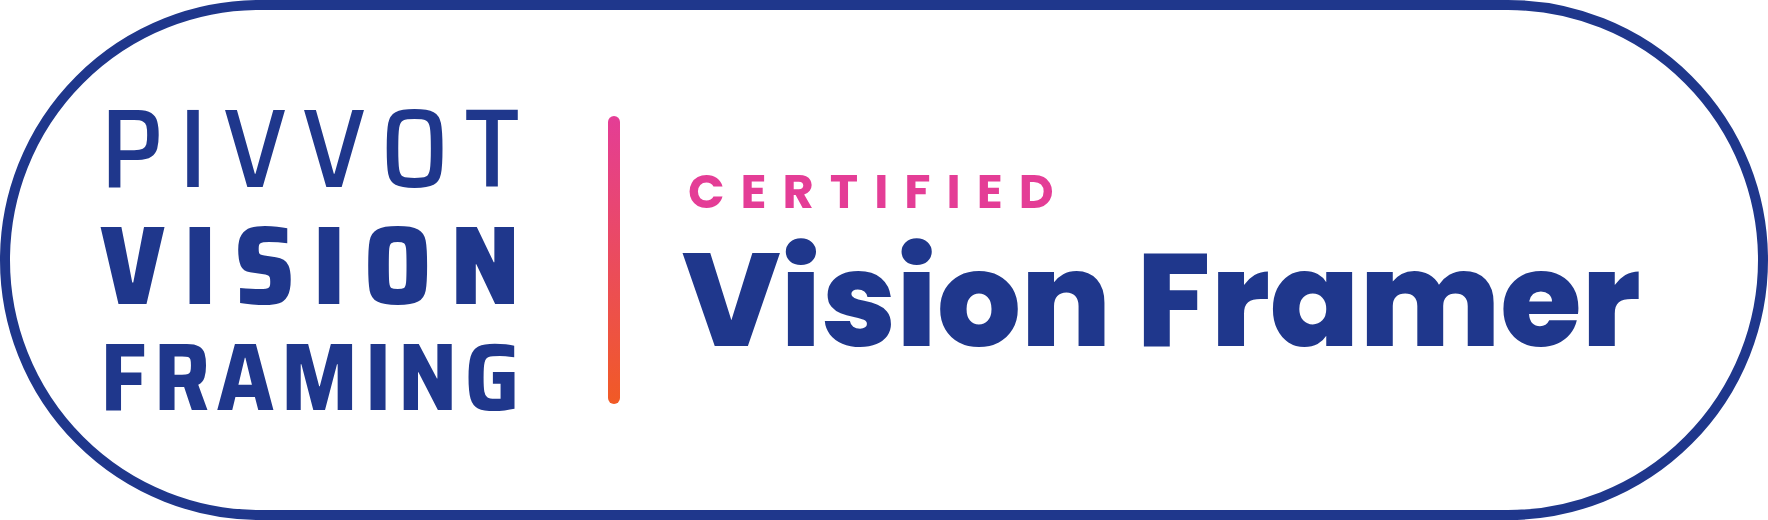
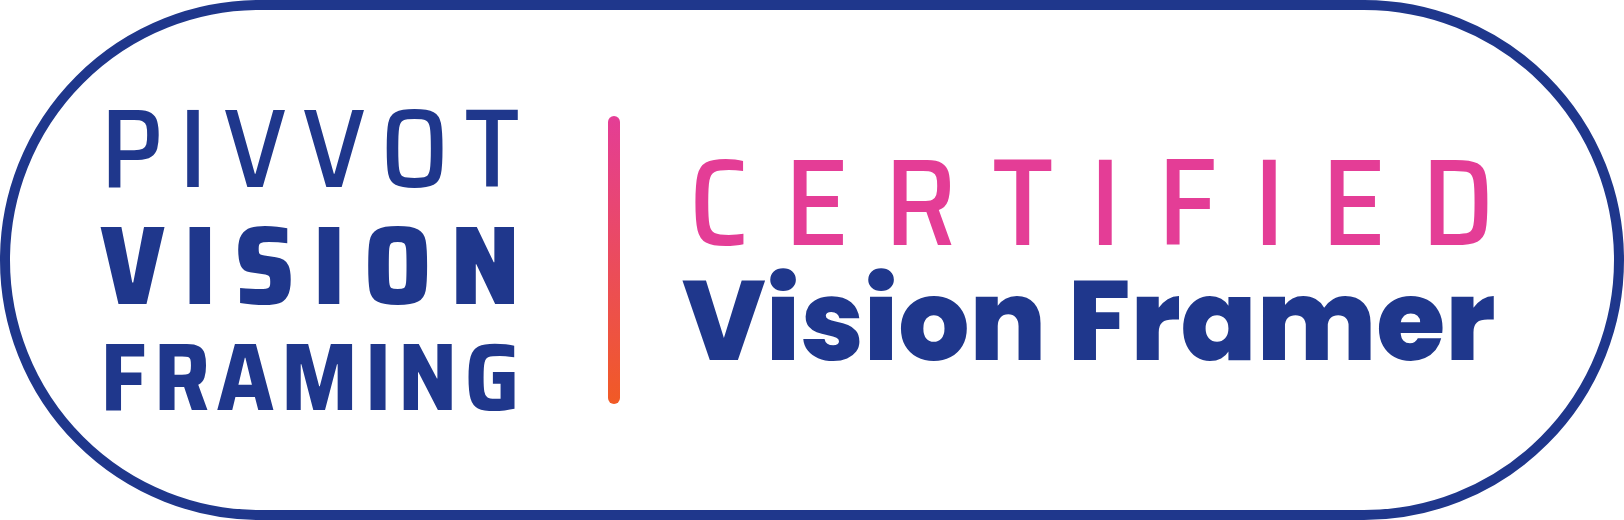
Badges: stacked-wordmark hexagons, Industry-style ribbon, justified lockups
Add H4/H5 with the stacked PIVVOT / VISION / FRAMING wordmark above the
frame, sized to the hairline in the hexagon's top point. Set CERTIFIED in
the Industry Medium stand-in (Saira Semi Condensed 500). Justify the
lockup text to one width: Vision Framer sets it, the issuer line and
CERTIFIED are tracked out to meet it.

Claude-Session: https://claude.ai/code/session_01BSFopuXw4RjBGF4kx6dqA9

diff --git a/assets/badges/src/build-badges.js b/assets/badges/src/build-badges.js
@@ -41,6 +41,8 @@ function measure(text, key, size, ls = 0) {
   return (u / m.upm) * size + ls * (text.length - 1);
 }
 const capHeight = (key, size) => (METRICS[key].cap / METRICS[key].upm) * size;
+// Letter-spacing that stretches `text` at `size` to exactly `W`.
+const justify = (text, key, size, W) => +((W - measure(text, key, size, 0)) / (text.length - 1)).toFixed(2);
 // Largest size ≤ max at which `text` fits in `maxW` (tracking scales with size).
 function fit(text, key, max, ls, maxW) {
   let size = max;
@@ -121,7 +123,7 @@ const text = (x, y, t, { font = FONT, wt = 700, size, ls = 0, fill, anchor = 'mi
 // =============================================================== ROUND 2
 // H · Hexagon badge (digital-credential silhouette: AWS, Microsoft, Credly).
 //   mark: 'frame' | 'wordmark' | 'blue'
-function hexBadge(mark, p) {
+function hexBadge(mark, p, { stacked = false } = {}) {
   const W = 600, H = 660, cx = 300, cy = 325, R = 290;
   const blue = mark === 'blue';
   const ink = blue ? C.deep : C.navy;            // band, labels
@@ -148,7 +150,7 @@ function hexBadge(mark, p) {
   <polygon fill="${C.magentaDkr}" points="${rb.x1},${rbBot} ${rb.x1 + tail.over},${rbBot} ${rb.x1 + tail.over},${tBot}"/>
   <polygon fill="${C.orangeDkr}" points="${rb.x2},${rbBot} ${rb.x2 - tail.over},${rbBot} ${rb.x2 - tail.over},${tBot}"/>
   <rect x="${rb.x1}" y="${rb.top}" width="${rb.x2 - rb.x1}" height="${rb.h}" fill="url(#${p}g)"/>
-  ${text(cx, (rb.top + rb.h / 2 + capHeight('pb-800', 38) / 2).toFixed(1), 'CERTIFIED', { wt: 800, size: 38, ls: 10, fill: C.white })}`;
+  ${text(cx, (rb.top + rb.h / 2 + capHeight('ss-500', 46) / 2).toFixed(1), 'CERTIFIED', { font: WM, wt: 500, size: 46, ls: justify('CERTIFIED', 'ss-500', 46, 272), fill: C.white })}`;
 
   // Bottom line, sized to fit the narrowing lower half with ≥14px clearance,
   // then a short gradient rule to anchor the point of the hexagon.
@@ -161,7 +163,14 @@ function hexBadge(mark, p) {
 
   // Centre zone: issuer label + mark, or the wordmark under a small frame emblem.
   let centre;
-  if (mark === 'wordmark') {
+  if (stacked) {
+    // Stacked PIVVOT / VISION / FRAMING over the frame. The wordmark's top corners
+    // are the tight spot: fit its width to the hairline there with clearance.
+    const top = 122, scale = 0.6, w = Math.min(140, 2 * (halfAt(top) - clear));
+    const s = 126, y = top + wordmarkHeight(scale) + 16;
+    centre = `${wordmark(cx, top, w, { fill: ink, scale })}
+    ${blue ? frameBlue(cx - s / 2, y, s, p + 'm') : frame(cx - s / 2, y, s)}`;
+  } else if (mark === 'wordmark') {
     const w = 212, scale = 1.06, top = 186;
     centre = `${frame(cx - 26, 104, 52)}${wordmark(cx, top, w, { fill: ink, scale })}`;
   } else {
@@ -196,25 +205,34 @@ function lockupBadge(mark, p) {
     const w = 210, top = cy - wordmarkHeight() / 2;
     left = wordmark(50 + w / 2, top, w, { fill: ink });
     ruleX = 50 + w + 44; textX = ruleX + 40;
-    // Right side: small CERTIFIED eyebrow, then Vision Framer on one line.
-    const eb = { size: 24, ls: 8 }, big = { size: 66 };
-    const blockH = capHeight('pb-700', eb.size) + 22 + capHeight('pb-800', big.size);
+    // Right side, justified to one width: CERTIFIED (Industry Medium stand-in,
+    // tracked out) over Vision Framer (Poppins 800), which sets the width.
+    const big = 56, Wt = measure('Vision Framer', 'pb-800', big) - 3;
+    const cert = 62, certLs = justify('CERTIFIED', 'ss-500', cert, Wt);
+    const blockH = capHeight('ss-500', cert) + 18 + capHeight('pb-800', big);
     const t0 = cy - blockH / 2;
-    lines = `${text(textX, (t0 + capHeight('pb-700', eb.size)).toFixed(1), 'CERTIFIED', { wt: 700, size: eb.size, ls: eb.ls, fill: accent, anchor: 'start' })}
-    ${text(textX - 3, (t0 + blockH).toFixed(1), 'Vision Framer', { wt: 800, size: big.size, fill: ink, anchor: 'start' })}`;
-    textEnd = textX + Math.max(measure('CERTIFIED', 'pb-700', eb.size, eb.ls), measure('Vision Framer', 'pb-800', big.size) - 3);
+    lines = `${text(textX, (t0 + capHeight('ss-500', cert)).toFixed(1), 'CERTIFIED', { font: WM, wt: 500, size: cert, ls: certLs, fill: accent, anchor: 'start' })}
+    ${text(textX - 3, (t0 + blockH).toFixed(1), 'Vision Framer', { wt: 800, size: big, fill: ink, anchor: 'start' })}`;
+    textEnd = textX + Wt;
   } else {
     const s = 160, y = cy - s / 2;
     left = blue ? frameBlue(50, y, s, p + 'm') : frame(50, y, s);
     ruleX = 50 + s + 40; textX = ruleX + 40;
-    const eb = { size: 21, ls: 3.5 }, big = { size: 52 }, bigCap = capHeight('pb-800', big.size);
-    const blockH = capHeight('pb-600', eb.size) + 20 + bigCap + 14 + bigCap;
+    // Three lines justified to one width, like the stacked wordmark:
+    //   PIVVOT VISION FRAMING  Poppins 600, tracked out to the width
+    //   CERTIFIED              Industry Medium stand-in, tracked out to the width
+    //   Vision Framer          Poppins 800, sets the width
+    const big = 48, Wt = measure('Vision Framer', 'pb-800', big) - 3;
+    const eb = 19, ebLs = justify('PIVVOT VISION FRAMING', 'pb-600', eb, Wt);
+    const cert = 58, certLs = justify('CERTIFIED', 'ss-500', cert, Wt);
+    const caps = [capHeight('pb-600', eb), capHeight('ss-500', cert), capHeight('pb-800', big)], gaps = [18, 16];
+    const blockH = caps[0] + gaps[0] + caps[1] + gaps[1] + caps[2];
     const t0 = cy - blockH / 2;
-    const y1 = t0 + capHeight('pb-600', eb.size), y2 = y1 + 20 + bigCap, y3 = y2 + 14 + bigCap;
-    lines = `${text(textX, y1.toFixed(1), 'PIVVOT VISION FRAMING', { wt: 600, size: eb.size, ls: eb.ls, fill: accent, anchor: 'start' })}
-    ${text(textX - 3, y2.toFixed(1), 'Certified', { wt: 800, size: big.size, fill: ink, anchor: 'start' })}
-    ${text(textX - 3, y3.toFixed(1), 'Vision Framer', { wt: 800, size: big.size, fill: ink, anchor: 'start' })}`;
-    textEnd = textX + Math.max(measure('PIVVOT VISION FRAMING', 'pb-600', eb.size, eb.ls), measure('Vision Framer', 'pb-800', big.size) - 3);
+    const y1 = t0 + caps[0], y2 = y1 + gaps[0] + caps[1], y3 = y2 + gaps[1] + caps[2];
+    lines = `${text(textX, y1.toFixed(1), 'PIVVOT VISION FRAMING', { wt: 600, size: eb, ls: ebLs, fill: accent, anchor: 'start' })}
+    ${text(textX, y2.toFixed(1), 'CERTIFIED', { font: WM, wt: 500, size: cert, ls: certLs, fill: ink, anchor: 'start' })}
+    ${text(textX - 3, y3.toFixed(1), 'Vision Framer', { wt: 800, size: big, fill: ink, anchor: 'start' })}`;
+    textEnd = textX + Wt;
   }
   const W = Math.round(textEnd + 64);
   return svg(W, H, TITLE, `<defs>${ruleGrad}</defs>
@@ -326,6 +344,8 @@ const files = {
   'hex-1-frame.svg': hexBadge('frame', 'h1'),
   'hex-2-wordmark.svg': hexBadge('wordmark', 'h2'),
   'hex-3-blue-frame.svg': hexBadge('blue', 'h3'),
+  'hex-4-stacked-frame.svg': hexBadge('frame', 'h4', { stacked: true }),
+  'hex-5-stacked-blue-frame.svg': hexBadge('blue', 'h5', { stacked: true }),
   'lockup-1-frame.svg': lockupBadge('frame', 'l1'),
   'lockup-2-wordmark.svg': lockupBadge('wordmark', 'l2'),
   'lockup-3-blue-frame.svg': lockupBadge('blue', 'l3'),

diff --git a/assets/badges/README.md b/assets/badges/README.md
@@ -16,10 +16,19 @@ The same two layouts, built with each of the three marks:
 | Vision Frame from the certification handouts (`../icon-vision-frame.png`) | `hex-1-frame` | `lockup-1-frame` |
 | PIVVOT / VISION / FRAMING wordmark from the "Pivvot Vision Framing Cert Badge" design in Canva | `hex-2-wordmark` | `lockup-2-wordmark` |
 | Vision Frame from the process overview (`../tool-5-vision-frame.png`) | `hex-3-blue-frame` | `lockup-3-blue-frame` |
+| Stacked wordmark above the handout frame | `hex-4-stacked-frame` | — |
+| Stacked wordmark above the process-overview frame | `hex-5-stacked-blue-frame` | — |
 
 The hexagon has a swallow-tail ribbon with folds, a bottom line measured to
 fit the narrowing lower half, and a short gradient rule anchoring the
-point. The lockup's pill is sized to its text.
+point. The lockup's text block is justified to one width and its pill is
+sized to that block.
+
+"CERTIFIED" is meant to be set in **Industry Medium** (the face the Canva
+cert badge appears to use). Industry is commercial and not available here,
+so Saira Semi Condensed 500 stands in for it, as it does for the wordmark.
+To use the real face, add the Industry font files to `src/fonts/` and point
+the `PivvotWordmark` @font-face rules in `src/build-badges.js` at them.
 
 ## Round 1 — earlier directions
 
